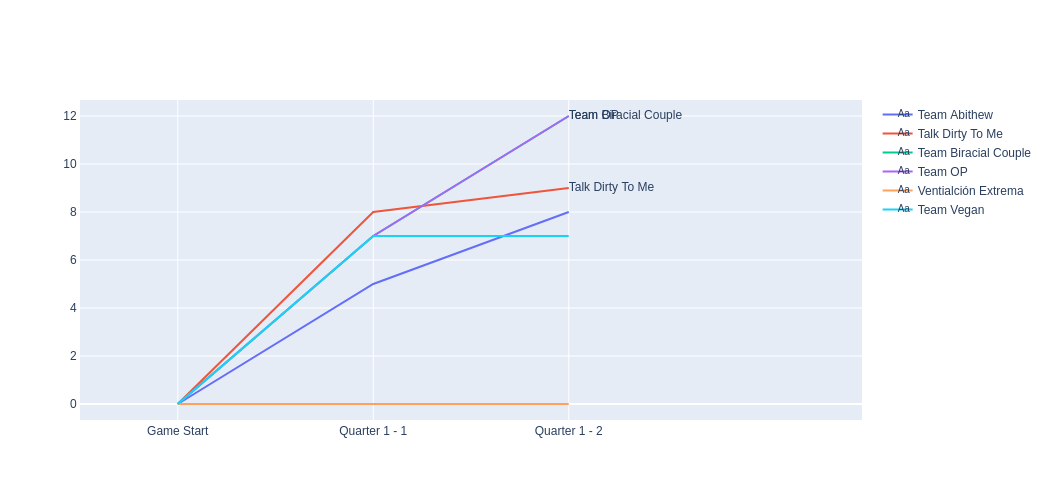
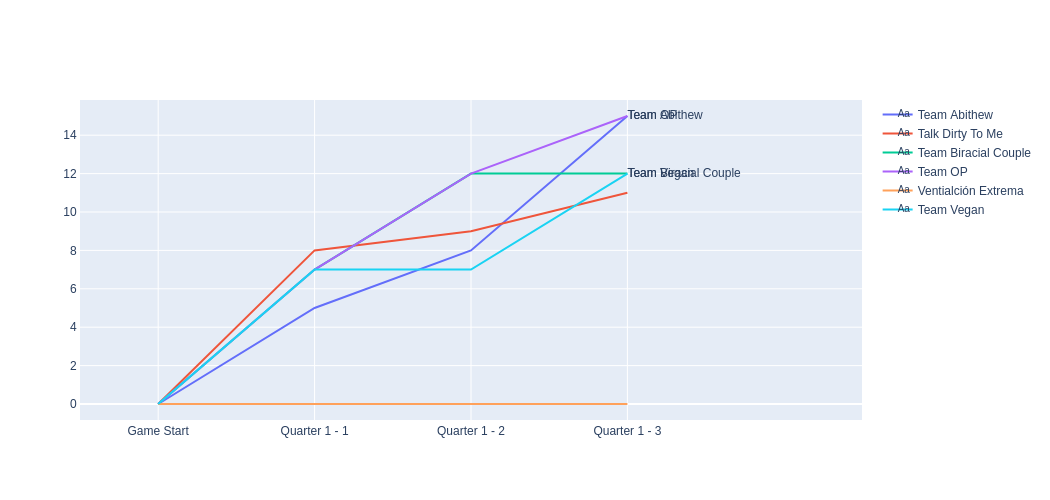
Live Edits

diff --git a/Trivia/Live_Tracker.html b/Trivia/Live_Tracker.html
@@ -13,7 +13,7 @@
         document.getElementById("title").innerHTML = "Trivia Live Scoring - " + m + "/" + d + "/" + y;
         </script>
         <div><img src = "img/fig1.png"></div>
-        <div>4 people (67%) got question 1-2 correct.</div>
+        <div>4 people (67%) got question 1-3 correct.</div>
         
         </body>
         </html>
